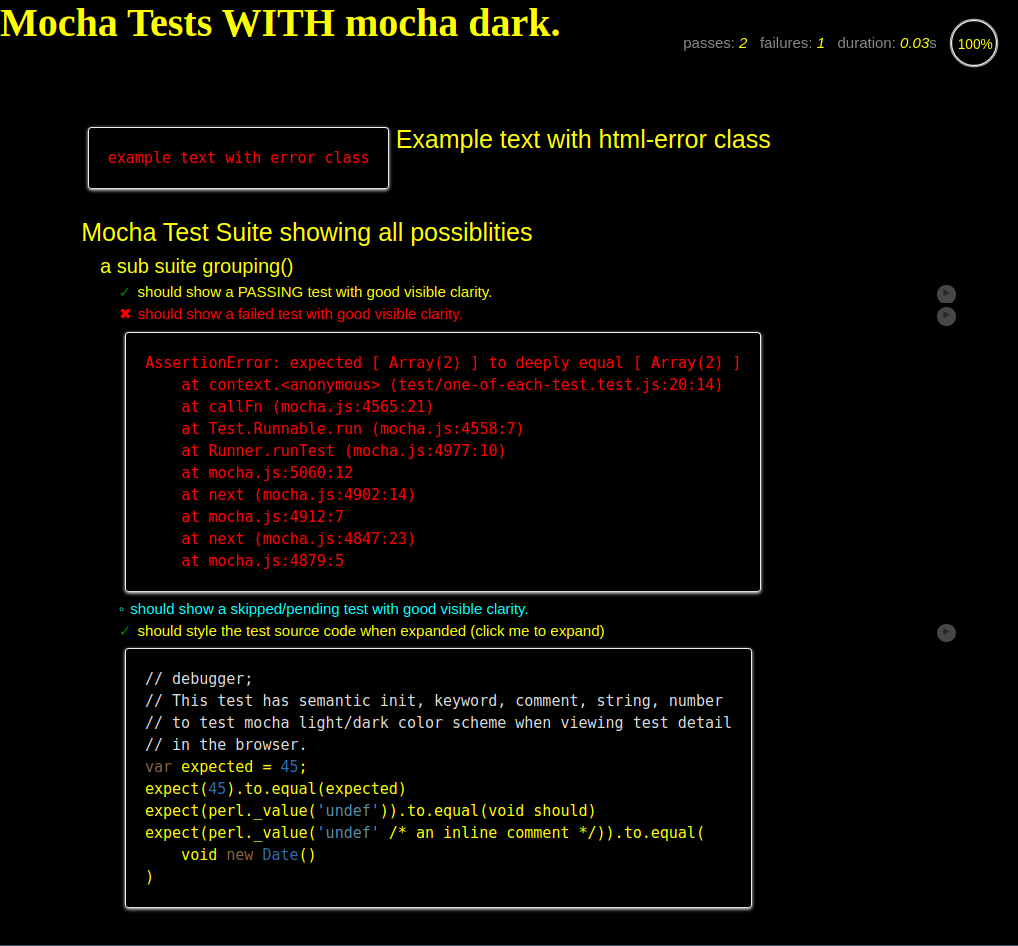
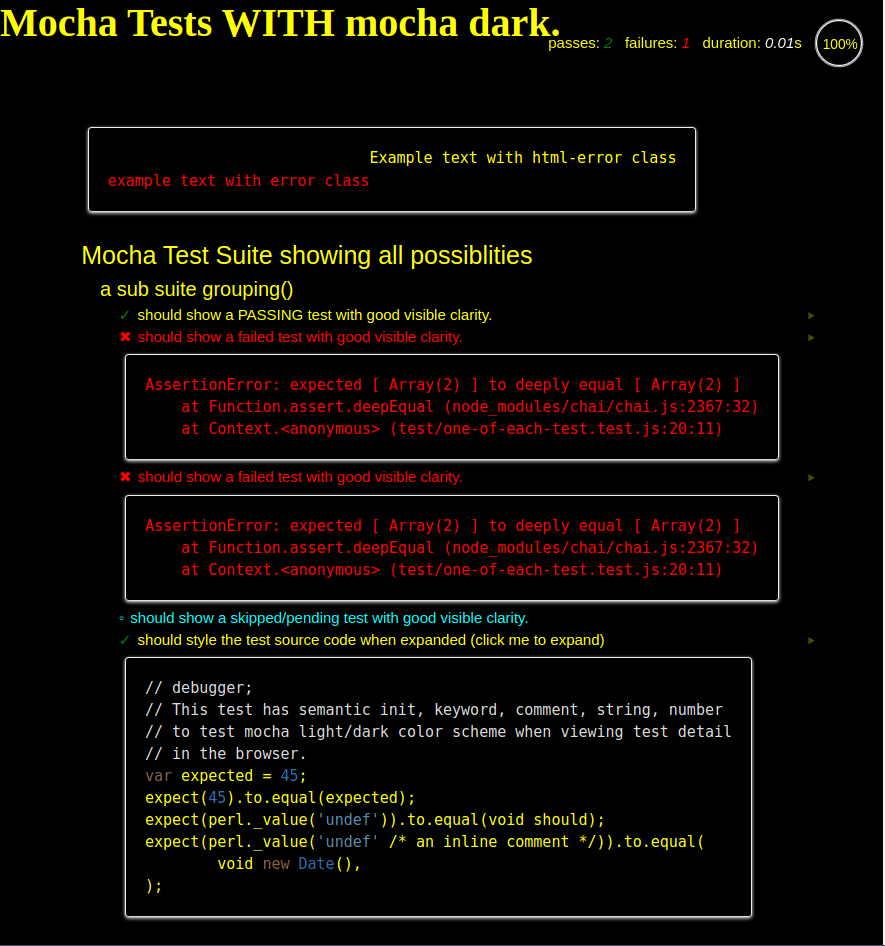
wip Updated mocha dark screen shot and README with features

diff --git a/README.md b/README.md
@@ -11,11 +11,12 @@ For accessibility, for those who have visual difficulties or for those who just 
 
 In this release (version: 2.3.4) we provide a replacement for `mocha.css` and `mocha.js` with a dark color scheme for use in Mocha browser based tests.
 * Contains both default (light) and dark scheme.
+* It detects the CSS media query prefers-color-scheme setting if your Operating System sets it and there is no override.
 * The user can make the page render dark on startup.
-* The user can toggle the scheme and have the setting remembered.
+* The user can click to toggle the scheme and have the setting remembered.
+* Color scheme setting is remembered for `file://` protocol as well as web server pages.
 
 ## Issues
-* Remembering your color setting does not work for pages loaded from file:// because it uses a cookie.
 * The circular progress indicator does not update color scheme until the page is reloaded.
 
 ## Usage
@@ -71,14 +72,16 @@ npm run test:light
 
 ## Changing Scheme in the Browser
 
-Once you are viewing the tests in the browser you can toggle the color scheme using a command in the *Javascript* console:
+Once you are viewing the tests in the browser you can toggle the color scheme by clicking on the circular progress indicator at top right of the page.
+
+The currently clicked setting is remembered using browser `localStorage` so it will persist forever and work on pages loaded from `file://` or loaded from web servers.
+
+Alternatively, you can toggle the color scheme using a command in the *Javascript* console:
 
 ```javascript
 mocha.setColorScheme('mocha-dark') // or mocha-light
 ```
-
-And this setting will be remembered using a browser cookie (for up to a year) but only if you are viewing the page through a website (not `file://` protocol)
-
+ss
 ## Color Scheme Differences
 
 ### Mocha Dark Theme
